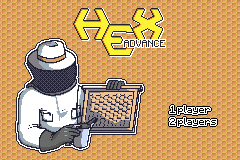
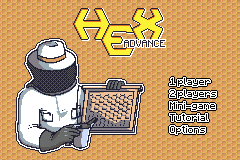
starting to implement minigame

Changed region(s): [[0.7, 0.4688, 0.9333, 0.8438]]

diff --git a/source/minigame_loop.c b/source/minigame_loop.c
@@ -1,0 +1,77 @@
+#include <tonc.h>
+#include <string.h>
+#include "graphics.h"
+#include "game_loop.h"
+#include "game.h"
+#include "movement.h"
+#include "title_screen_loop.h"
+#include "minigame.h"
+#include "minigame_loop.h"
+
+void init_minigame_loop()
+{
+	// sprites
+	// bee
+	memcpy(&tile_mem[4][0], bee32Tiles, bee32TilesLen/3/16); // on ne prend qu'un sprite dans la sheet de 16 sprites * 3 animations
+	memcpy(pal_obj_mem, bee32Pal, bee32PalLen);
+	// ghost_stone
+	memcpy(&tile_mem[4][64], stoneblackTiles, stoneblackTilesLen);
+	memcpy(&pal_obj_bank[1], stoneblackPal, stoneblackPalLen);
+	// larva
+	memcpy(&tile_mem[4][16], larvaTiles, larvaTilesLen/4);
+	GRIT_CPY(&pal_obj_bank[4], larvaPal);
+
+	oam_init(obj_buffer, OBJ_COUNT);
+
+	// background
+	memcpy(pal_bg_bank[0], hexPal, hexPalLen);		// BG_PAL 0
+	memcpy(&tile_mem[0][0], hexTiles, hexTilesLen);	// CBB 0
+	memcpy(&se_mem[30][0], hexMap, hexMapLen);		// SBB 30-31
+
+	REG_BG0CNT= BG_CBB(0) | BG_SBB(30) | BG_4BPP | BG_REG_32x32;
+	REG_DISPCNT= DCNT_MODE0 | DCNT_BG0 | DCNT_OBJ | DCNT_OBJ_1D;
+
+
+	obj_set_attr(bee.obj,
+		ATTR0_SQUARE,				// Square, regular sprite
+		ATTR1_SIZE_32x32,			// 32*32p,
+		ATTR2_PALBANK(0) | 0);		// palbank 0, tile 0
+
+	obj_set_attr(larva.obj,
+		ATTR0_SQUARE,			
+		ATTR1_SIZE_16x16,			
+		ATTR2_PALBANK(4) | 16);	
+
+	obj_set_attr(ghost_stone,
+		ATTR0_SQUARE,
+		ATTR1_SIZE_16x16,
+		ATTR2_PALBANK(1) | 64);
+
+	init_stones_sprites();
+
+	restart_minigame();
+
+	game_state = MINIGAME;
+}
+
+void minigame_loop()
+{
+	if (key_hit(KEY_START)) {
+		init_title_screen();
+		return;
+	}
+
+	evaluate_movement();
+	
+	if (key_hit(KEY_A))
+	{
+		player_play();
+		larva_play();
+	}
+
+	update_larva_sprite();
+	update_bee_sprite();
+
+	display_ghost_stone();
+
+}

diff --git a/source/title_screen_loop.c b/source/title_screen_loop.c
@@ -2,10 +2,18 @@
 #include <tonc.h>
 #include "graphics.h"
 #include "game_loop.h"
+#include "minigame_loop.h"
+
+#define TITLE_MENU_X		153
+#define TITLE_MENU_Y		78
+#define TITLE_MENU_SPACE	12
 
 enum TITLE_MENU_CHOICES {
 	TITLE_MENU_1_PLAYER,
 	TITLE_MENU_2_PLAYERS,
+	TITLE_MENU_MINIGAME,
+	TITLE_MENU_TUTORIAL,
+	TITLE_MENU_OPTIONS,
 	TITLE_MENU_NUMBER_OF_CHOICES
 };
 
@@ -28,7 +36,7 @@ void init_title_screen()
 		ATTR2_PALBANK(0) | 512);
 	
 	selected = TITLE_MENU_1_PLAYER;
-	obj_set_pos(&obj_buffer[0], 154, 106);
+	obj_set_pos(&obj_buffer[0], TITLE_MENU_X, TITLE_MENU_Y);
 
 	game_state = TITLE_SCREEN;
 
@@ -43,7 +51,7 @@ void title_screen_loop()
 
 	int offset = 1 * ((global_frame>>4)&1);
 
-	obj_set_pos(&obj_buffer[0], 153 - offset, 106 + 12 * selected);
+	obj_set_pos(&obj_buffer[0], TITLE_MENU_X - offset, TITLE_MENU_Y + 12 * selected);
 	
 	if (key_hit(KEY_A))
 	{
@@ -56,6 +64,9 @@ void title_screen_loop()
 			case TITLE_MENU_2_PLAYERS:
 				mode_1_or_2_players = MODE_2_PLAYERS;
 				init_game_loop();
+				return;
+			case TITLE_MENU_MINIGAME:
+				init_minigame_loop();
 				return;
 		}
 	}

diff --git a/source/minigame.c b/source/minigame.c
@@ -1,0 +1,28 @@
+#include "PlayerSprite.h"
+#include "graphics.h"
+#include "game.h"
+#include <string.h>
+#include "coordinates.h"
+#include "cpu_player.h"
+
+void restart_minigame()
+{
+    memset(board, 0, sizeof(board));
+
+    board[5][5] = LARVA;
+
+    init_stones_sprites();
+    current_player = PLAYER_1_BLACK;
+    switch_player_graphics();
+    winner = 0;
+    obj_hide(&obj_buffer[74]);          //hide win text
+    obj_unhide(bee.obj, DCNT_MODE0);
+    update_bee_sprite();
+
+    game_state = IN_GAME;
+}
+
+void larva_play()
+{
+
+}

diff --git a/source/graphics.c b/source/graphics.c
@@ -100,6 +100,13 @@ void update_bee_sprite()
 	obj_set_pos(bee.obj, bee.x+16, bee.y+16);	// compense le fait que le sprite fut en 64*64 avant
 }
 
+void update_larva_sprite()
+{
+	//bee.obj->attr2 = ATTR2_PALBANK(0) | get_sprite_frame_2D(&bee, global_frame);
+	memcpy(&tile_mem[4][16], &larvaTiles[(get_sprite_frame_1D(&larva, global_frame)) * 8] /*one 4bpp tile = 8 ints*/, larvaTilesLen/4);
+	obj_set_pos(larva.obj, larva.x, larva.y);
+}
+
 void init_stones_sprites()
 {
 

diff --git a/source/PlayerSprite.h b/source/PlayerSprite.h
@@ -15,7 +15,8 @@
 
 typedef enum {
 	PLAYER_1_BLACK = 1,	// yellow bee, black stones
-	PLAYER_2_WHITE = 2	// red bee, white stones
+	PLAYER_2_WHITE = 2,	// red bee, white stones
+	LARVA
 } Player;
 
 enum BEE_ANIMATIONS {
@@ -37,5 +38,6 @@ typedef struct {
 } PlayerSprite;
 
 extern PlayerSprite bee;
+extern PlayerSprite larva;
 
 extern int putting_stone_delay;

diff --git a/source/graphics.h b/source/graphics.h
@@ -10,6 +10,7 @@
 #include "coordinates.h"
 #include "stonesetblack.h"
 #include "stonesetwhite.h"
+#include "larva.h"
 
 //menus
 #include "txt_p1wins.h"
@@ -34,6 +35,8 @@ void switch_player_graphics();
 void display_ghost_stone();
 
 void update_bee_sprite();
+
+void update_larva_sprite();
 
 void init_stones_sprites();
 

diff --git a/source/main.c b/source/main.c
@@ -11,6 +11,7 @@
 
 #include "title_screen_loop.h"
 #include "game_loop.h"
+#include "minigame_loop.h"
 
 
 int global_frame = 0;
@@ -47,6 +48,10 @@ int main()
 			
 			case PUTTING_STONE:
 				putting_stone_loop();
+				break;
+
+			case MINIGAME:
+				minigame_loop();
 				break;
 		}
 

diff --git a/source/PlayerSprite.c b/source/PlayerSprite.c
@@ -13,4 +13,17 @@ PlayerSprite bee = {
 	0, 0
 };
 
+PlayerSprite larva = {
+    &obj_buffer[75],
+    2, 2,
+    12,
+    4,
+    EAST,
+    0,
+    SCREEN_WIDTH/2-8, SCREEN_HEIGHT/2-8,
+    0,
+    0, 0
+};
+
+
 int putting_stone_delay = 0;

diff --git a/source/toolbox.h b/source/toolbox.h
@@ -21,7 +21,8 @@ typedef enum {
 	TITLE_SCREEN,
 	IN_GAME,
 	GAME_ENDED,
-	PUTTING_STONE
+	PUTTING_STONE,
+	MINIGAME
 } GAME_STATE;
 
 extern GAME_STATE game_state;

diff --git a/source/minigame.h b/source/minigame.h
@@ -1,0 +1,9 @@
+#pragma once
+
+#include "coordinates.h"
+#include "PlayerSprite.h"
+#include "game.h"
+
+void restart_minigame();
+
+void larva_play();

diff --git a/source/game.c b/source/game.c
@@ -249,4 +249,4 @@ void restart_game()
     update_bee_sprite();
 
     game_state = IN_GAME;
-};
+}

diff --git a/source/minigame_loop.h b/source/minigame_loop.h
@@ -1,0 +1,5 @@
+#pragma once
+
+void init_minigame_loop();
+
+void minigame_loop();
